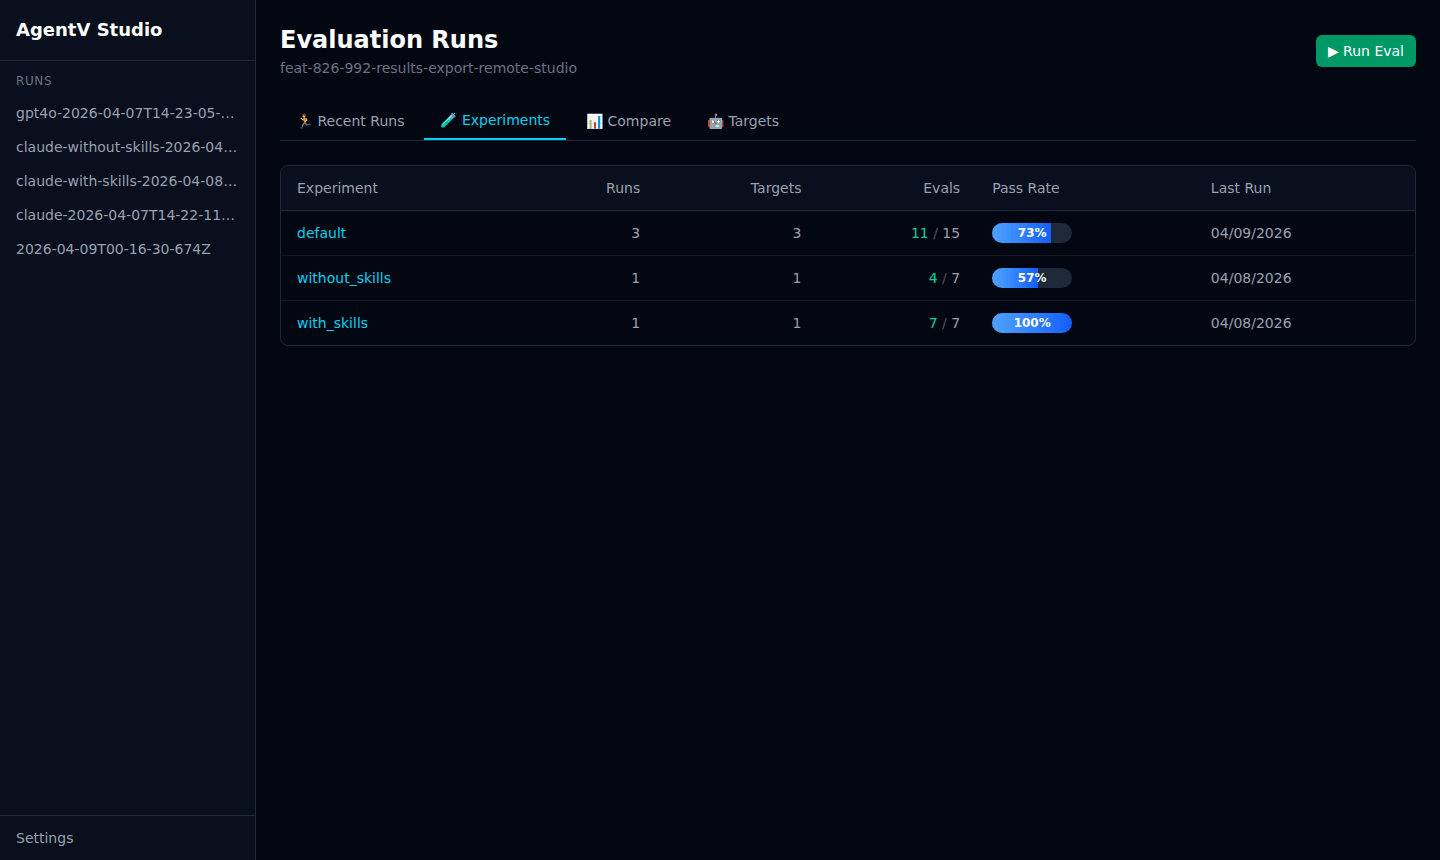
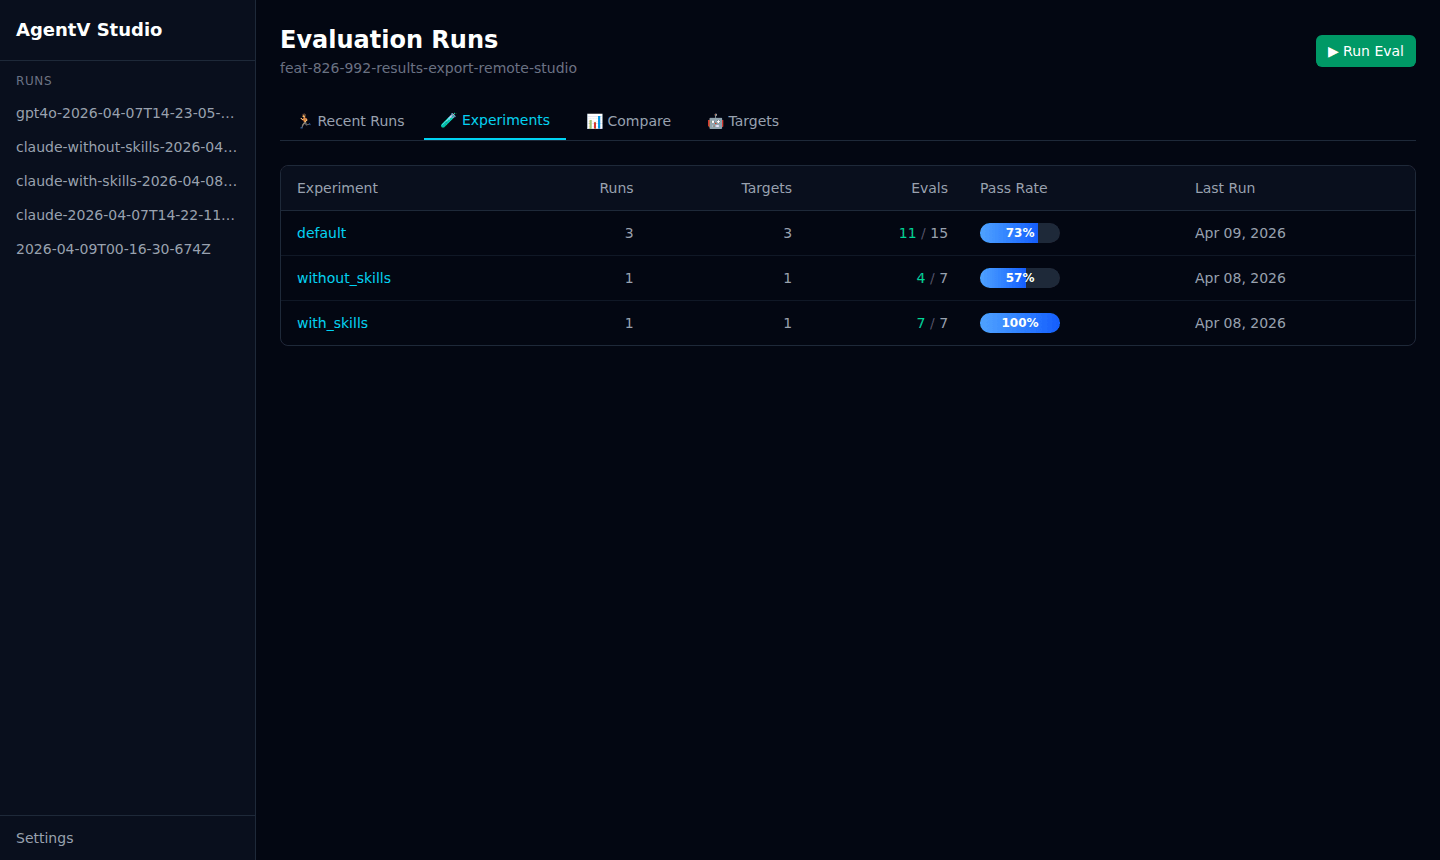
fix(studio): use en-AU locale for day-first date format (09 Apr 2026)

diff --git a/apps/studio/src/components/ExperimentsTab.tsx b/apps/studio/src/components/ExperimentsTab.tsx
@@ -86,7 +86,7 @@ function formatTimestamp(ts: string | undefined | null): { date: string; full: s
     const d = new Date(ts);
     if (Number.isNaN(d.getTime())) return { date: 'N/A', full: 'N/A' };
     return {
-      date: d.toLocaleDateString(undefined, { year: 'numeric', month: 'short', day: '2-digit' }),
+      date: d.toLocaleDateString('en-AU', { year: 'numeric', month: 'short', day: '2-digit' }),
       full: d.toLocaleString(),
     };
   } catch {

diff --git a/apps/studio/src/components/RunList.tsx b/apps/studio/src/components/RunList.tsx
@@ -25,7 +25,7 @@ function formatDate(ts: string | undefined | null): { date: string; full: string
   try {
     const d = new Date(ts);
     if (Number.isNaN(d.getTime())) return { date: 'N/A', full: 'N/A' };
-    const date = d.toLocaleDateString(undefined, {
+    const date = d.toLocaleDateString('en-AU', {
       year: 'numeric',
       month: 'short',
       day: '2-digit',
